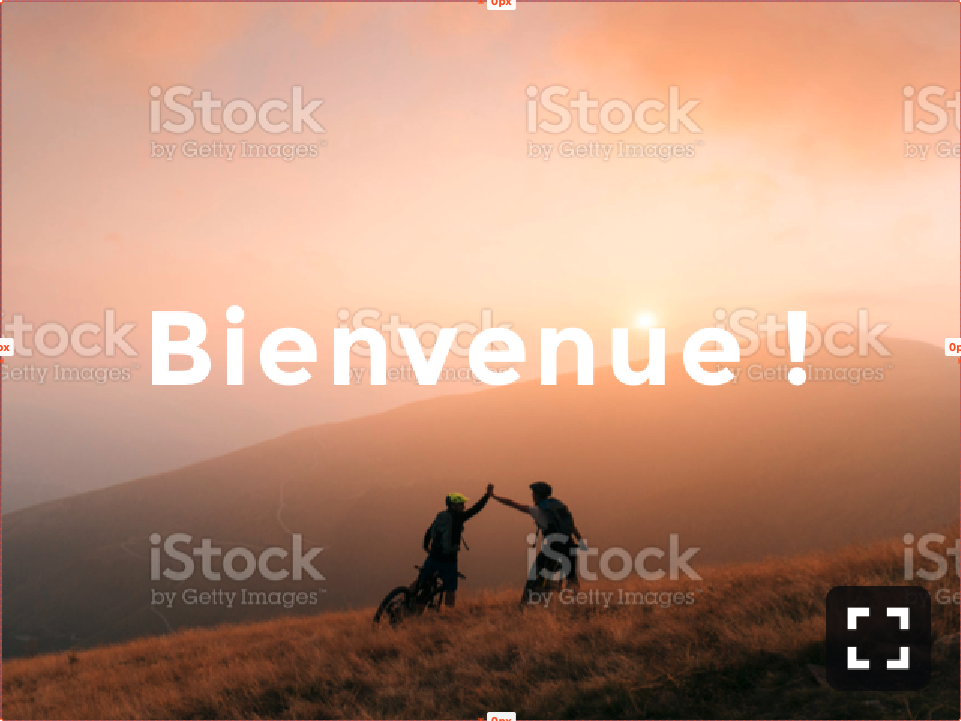
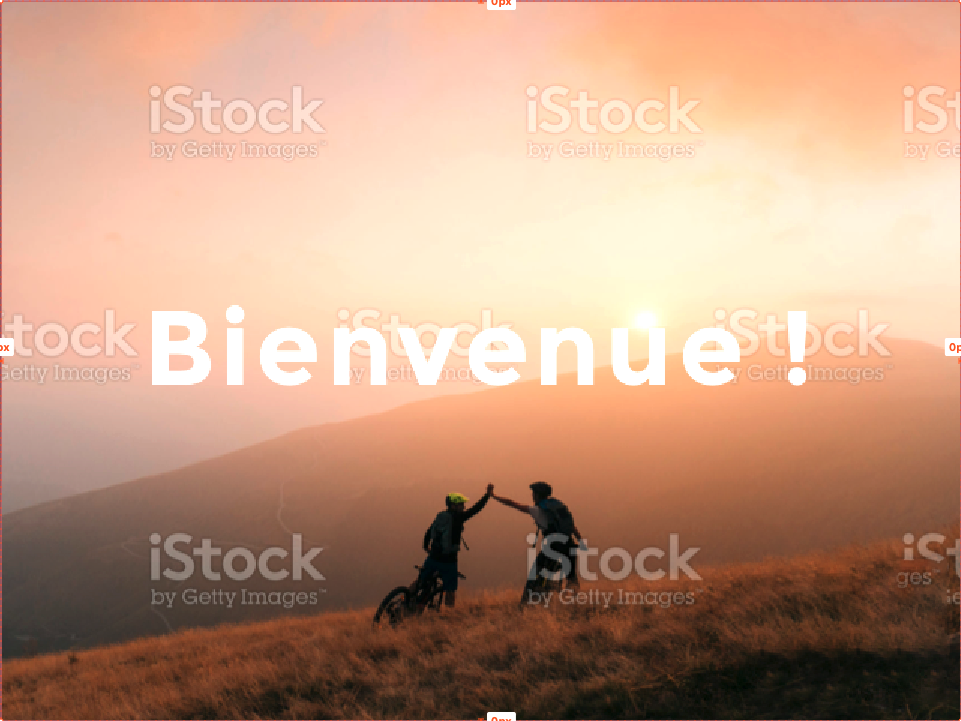
Content

Changed region(s): [[0.8429, 0.7628, 0.999, 0.9459]]

diff --git a/reproduction/style.css b/reproduction/style.css
@@ -116,3 +116,40 @@ header {
 .active .bar:nth-of-type(3) {
     transform: rotate(45deg) translate(-3px, -12.5px);
 }
+
+/* Content */
+
+main {
+    height: calc(100% - 120px);
+    padding: 25px 0;
+    box-sizing: border-box;
+    background-color: #07070A;
+}
+
+#content-img {
+    position: relative;
+}
+
+#content-img img {
+    width: 100%;
+}
+
+#img-fullscreen {
+    position: absolute;
+    width: 40px;
+    height: 40px;
+    bottom: 15px;
+    right: 15px;
+    border-radius: 7px;
+    background-color: rgba(7, 7, 10, 0.7);
+    background-image: url(assets/ico-fullscreen.svg);
+    background-size: 50%;
+    background-position: center;
+    background-repeat: no-repeat;
+    cursor: pointer;
+    transition: .25s;
+}
+
+#img-fullscreen:hover {
+    background-color: #07070a;
+}

diff --git a/reproduction/index.html b/reproduction/index.html
@@ -22,5 +22,13 @@
             </div>
         </nav>
     </header>
+    <main>
+        <div id="content-container">
+           <div id="content-img">
+               <img src="assets/slide.png" alt="Slide 1">
+               <div id="img-fullscreen"></div>
+           </div>
+        </div>
+    </main>
 </body>
 </html>

diff --git a/reproduction/script.js b/reproduction/script.js
@@ -8,4 +8,8 @@ $(document).ready(function() {
        $(this).toggleClass('active'); 
     });
     
+    $('#img-fullscreen').click(function() {
+       $('#lightbox').addClass('active'); 
+    });
+    
 });
